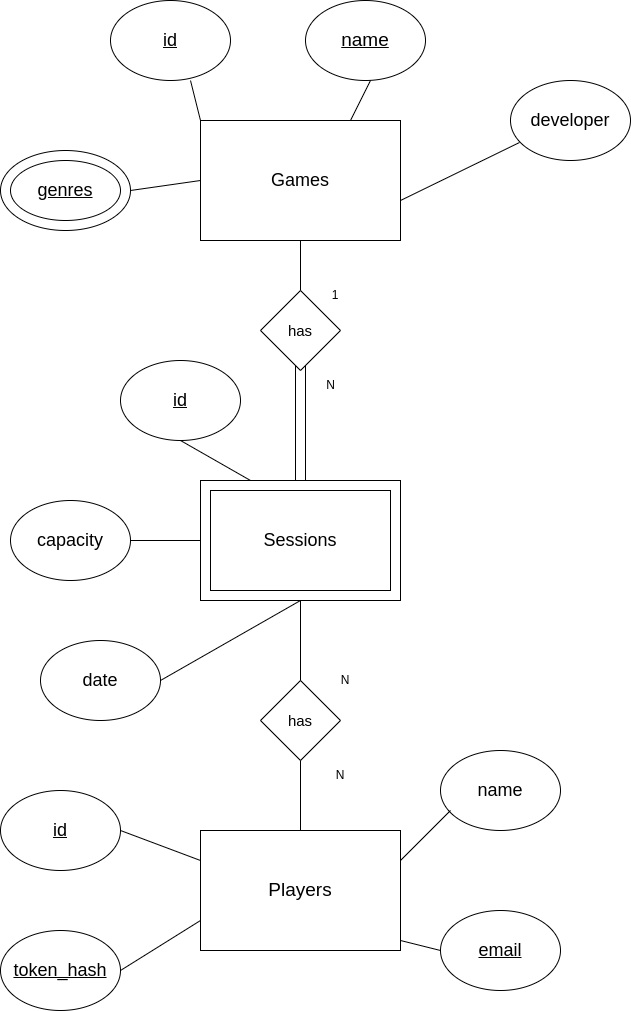
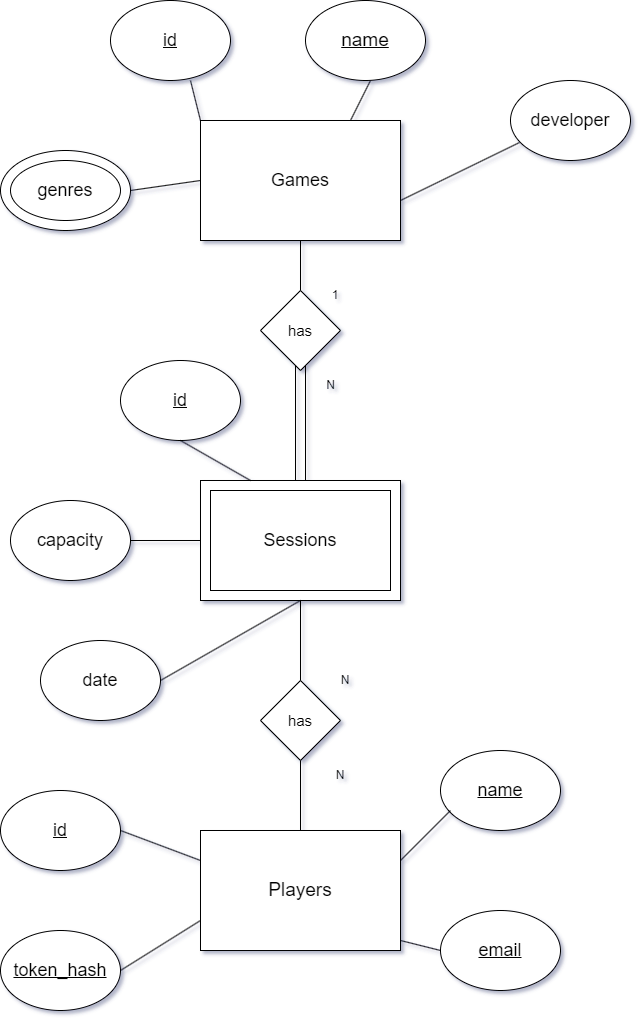
Updated report, ER diagram

diff --git a/src/main/kotlin/pt/isel/ls/docs/report.md b/src/main/kotlin/pt/isel/ls/docs/report.md
@@ -9,19 +9,20 @@ We covered the implemented features with unit tests using the `JUnit` library.
 The database is managed by `PostgreSQL` and the connections are made using the `JDBC` library.
 
 On the frontend side, we used Javascript modules to manage the user interface of the website.
-The web application loads only a single web page document,
-and then updates the body content of that single document via JavaScript making by HTTP requests to the server and 
-replacing the body content with the response content.
+The web application loads only a single web page document and updates its content via JavaScript making by HTTP requests to the server and 
+replacing the body content with the content of the 'rendered' view.
 
 This technique is called Single Page Application (SPA).
 
-## Modeling the database
+## Implementation Details
 
-### Conceptual model ###
+### Database
 
+#### Conceptual model ###
 The following diagram holds the Entity-Relationship model for the information managed by the system.
 
-[ER Diagram](ae_model_diagram.png)
+
+![ER Diagram](ea_model_new.png)
 
 We highlight the following aspects:
 
@@ -47,11 +48,10 @@ The conceptual model has the following restrictions:
 - Sessions must have a capacity greater than 0 and at most 100.
 - Sessions must have a date in the future.
 - To add a player to a session, the player must not already be in the session, the session must not be full and not closed
-(current date must be before the session date).
+- To create a session, the current date must be after the session date.
 
 
-### Physical Model ###
-
+#### Physical Model ###
 
 The physical model of the database is available [here](../../../../../sql/createTables.sql).
 
@@ -65,62 +65,16 @@ Additionally, the foreign key pair is defined as the primary key of the table, e
 
 IDs were defined as serial primary keys. The Sessions table holds a foreign key to the Games table, representing the 1 to N relationship between games and sessions.
 
-The genres defined as valid were 'Action', 'Adventure', 'RPG', 'Strategy', 'Turn-Based'.
+The genres defined as valid were 'Action', 'Adventure', 'RPG', 'Shooter', 'Turn-Based'.
 
 Data Integrity restrictions mentioned in the conceptual model are enforced by the database by defining the proper types and constraints for each column.
 
 The remaining restrictions mentioned in the conceptual model that are
 not present in the physical model are enforced by the application logic at the service layer.
 
-## Software organization
+### Software organization
 
-### Open-API Specification
-
-[Open-api Specification](open-api.json)
-
-In our Open-API specification, we highlight the following aspects:
-
-We have 3 groups of endpoints: Games, Players, and Sessions.  
-
-The types of request methods the api supports are :
-    - GET
-    - POST
-    - DELETE
-    - PUT
-
-The Games group has 3 endpoints: 
- - Game Creation : POST /games
- - Game Search : GET /games
- - Game Search by id : GET /games/{id}
-
-The Players group has 3 endpoints:
-
- - Player Creation : POST /players
-- Player Details : GET /players/{id}
-- Player Search : GET /players
-
-The Sessions group has 7 endpoints: 
- - Create Session : POST /sessions
- - Update session : PUT /sessions/{id}
- - Delete session : DELETE /sessions/{id}
- - Session Search : GET /sessions/{gid}/list
- - Session Search by id : GET /sessions/{id}
- - Add player to session : POST /sessions/{id}/players
- - Remove player from session : DELETE /sessions/{id}/players/{pid}
-
-
-Response codes are:
-
-| Response Code           | Description           | Examples                           |
-|-------------------------|-----------------------|------------------------------------|
-| 200                     | OK                    | Got a Player                       |
-| 201                     | Created               | Create a Game                      |
-| 204                     | No Content            | No results found for search        |
-| 400                     | Bad Request           | Missing a parameter on the request |
-| 404                     | Not Found             | Player not found                   |
-| 500                     | Internal Server Error | An error in the server             |
-
-### Request Details
+#### Request Details
 
 #### Server Request Flow
 
@@ -155,57 +109,57 @@ any errors that may occur at the application level.
 
 #### Client Request Flow
 
-The requests of the frontend of the application uses the Single Page Application (SPA) technique.
-This technique allows the user interface to load only a single web page document and then updates the body content
-of that single document using DOM elements without making any additional HTTP requests made by the client.
-When a client request needs information from the server API it is used the javascript Fetch API to make the request.
+The requests of the frontend of the application use the Single Page Application (SPA) technique.
+
+This technique allows the user interface to load only a single web page document and then update the body content
+of that single document using DOM elements without making any additional HTTP browser requests.
 
 The redirection of the user interface is done by replacing the body content of the document with the content of the
 requested page.
+
 The requested page URL is changed with a hash mark (#) on its path, which is then used to determine which content to
 show on the page.
 
-In the file `index.html`, the body content is replaced by the content of the requested page using the event listener of
-type `load`
-and verify if it's hash mark has changed on the redirected URL by the event listener of type `hashchange`.
+Whenever the page is first loaded, the `loadHandler` function is called to define the SPA routes.
 
-The function `loadHandler` is responsible for loading the content of the requested page and replacing the body content
-with it, by adding route handlers, that contains the path, and it's the content to be replaced in DOM.
+The `loadHandler` function defines the routes of the SPA application and calls the `hashChangeHandler` function to load the content of the requested page.
 
-The function `hashChangeHandler` is responsible for verifying if the hash mark of the URL has changed and if it has, it
-calls the `loadHandler` function to load the content of the requested page.
+The function `hashChangeHandler` is called whenever the hash mark of the URL changes, and it calls the `router` module to match the route and get the
+correct handler.
 
-The `router` module handles the URL path and it's params and queries to be processed by the `loadHandler`
-and `hashChangeHandler`.
+The `router` module handles the route matching and URL query/parameter extraction logic of the SPA application.
 
 The `handlers` module contains the functions that are called by the `router` module to load the content of the requested
 page which contains DOM elements to be displayed.
 
+#### Connection Management
 
-### Connection Management
+The project manages connections to a PostgresSQL database through a class named `DBManager`. 
 
-The project manages connections to a PostgreSQL database through a class named DBConnectionManager.
+This class is extended by each of the database classes responsible for managing the data of the entities (Games, Players, and Sessions).
+
 This class is responsible for giving out connections to the database for each thread, and closing them when they are no longer needed.
 For each new connection, the class creates a new instance of a PGSimpleDataSource, and sets its connection parameters.
 The connections are closed using the close method of the class.
 
 In the overall application, at the `main` function, the application creates a new instance of the `SessionsDataManager` class. This 
-class internally uses the `DBConnectionManager` class to allow the user to shut down the connections when the application is finished.
+class internally calls the `close` method for each of the database classes, implemented by the `DBManager` class, to close the connections.
 
 When the `storage.use {}` block is finished, the `SessionsDataManager` internally calls the close method of the `DBConnectionManager` to close the connections.
 
-### Data Access
+#### Data Access
 
 For data access, we implemented the `SessionsDataManager` class, which is responsible for managing storage, be it in memory or in a database.
-
-This class uses the `DBConnectionManager` class to allow the user to shut down the connections when the application is finished.
 
 We also implemented the `SessionsDataGame`, `SessionsDataPlayer`, and `SessionsDataSession` interfaces, which are responsible for managing the data of the respective entities and support different types of implementations, such as in-memory storage or database storage.
 
 For the storage interface implementation, we created the `SessionsDataGameDB`, `SessionsDataPlayerDB`, and `SessionsDataSessionDB` classes for database storage,
 and the `SessionsDataGameMem`, `SessionsDataPlayerMem`, and `SessionsDataSessionMem` classes for in-memory storage.
 
-### Error Handling/Processing
+The database storage classes extend the `DBManager` class, which is responsible for managing the database connections for each thread and executing queries.
+
+#### Error Handling/Processing
+
    #### Back-End 
 As said in the Request Details section, the application processes the request at the API level, which is responsible for catching any errors and returning the appropriate response.
 
@@ -226,15 +180,81 @@ If a Back-End error is relevant to the user, the application displays an error m
 
 An example would be if no results are found for a given search, the application informs the user that no results were found and that they should try again with different parameters.
 
-For pagination, the SPA uses the `total` property of search results to calculate the number of pages and display the correct pagination buttons to the user.
+
+## Open-API Specification
+
+[Open-api Specification](open-api.json)
+
+In our Open-API specification, we highlight the following aspects:
+
+We have 3 groups of endpoints: Games, Players, and Sessions.
+
+The types of request methods the api supports are :
+- GET
+- POST
+- DELETE
+- PUT
+
+The Games group has 3 endpoints:
+- Game Creation : POST /games
+- Game Search : GET /games
+- Game Search by id : GET /games/{id}
+
+The Players group has 3 endpoints:
+
+- Player Creation : POST /players
+- Player Details : GET /players/{id}
+- Player Search : GET /players
+
+The Sessions group has 7 endpoints:
+- Create Session : POST /sessions
+- Update session : PUT /sessions/{id}
+- Delete session : DELETE /sessions/{id}
+- Session Search : GET /sessions/{gid}/list
+- Session Search by id : GET /sessions/{id}
+- Add player to session : POST /sessions/{id}/players
+- Remove player from session : DELETE /sessions/{id}/players/{pid}
+
+
+Response codes are:
+
+| Response Code           | Description           | Examples                           |
+|-------------------------|-----------------------|------------------------------------|
+| 200                     | OK                    | Got a Player                       |
+| 201                     | Created               | Create a Game                      |
+| 204                     | No Content            | No results found for search        |
+| 400                     | Bad Request           | Missing a parameter on the request |
+| 404                     | Not Found             | Player not found                   |
+| 500                     | Internal Server Error | An error in the server             |
+
+
+## Single Page Application 
+
+### SPA Operations 
+
+The SPA offers the following operations to the user:
+- Search for games
+- Search for sessions
+- Create a player
+- Create a game
+- Create a session
+- Update a session
+- Delete a session
+- See the details of a player
+- Add a player to a session
+- Remove a player from a session
+
+### SPA Navigation 
+
+![SPA Navigation Graph](spa_views.png)
+
+
+
 ## Critical Evaluation
 
 As of the moment this report was written, the application is able to create, search, and add players to games and sessions.
-All functionality for the first phase was implemented and tested.
 
 No major defects were detected as of the time of writing this report, but some improvements can be made in the future:
-
-No major defects were detected as of the time of writing this report.
 
 The currently planned changes are to increase the API test coverage with more edge cases, and improve the project documentation at the 
 code level.
